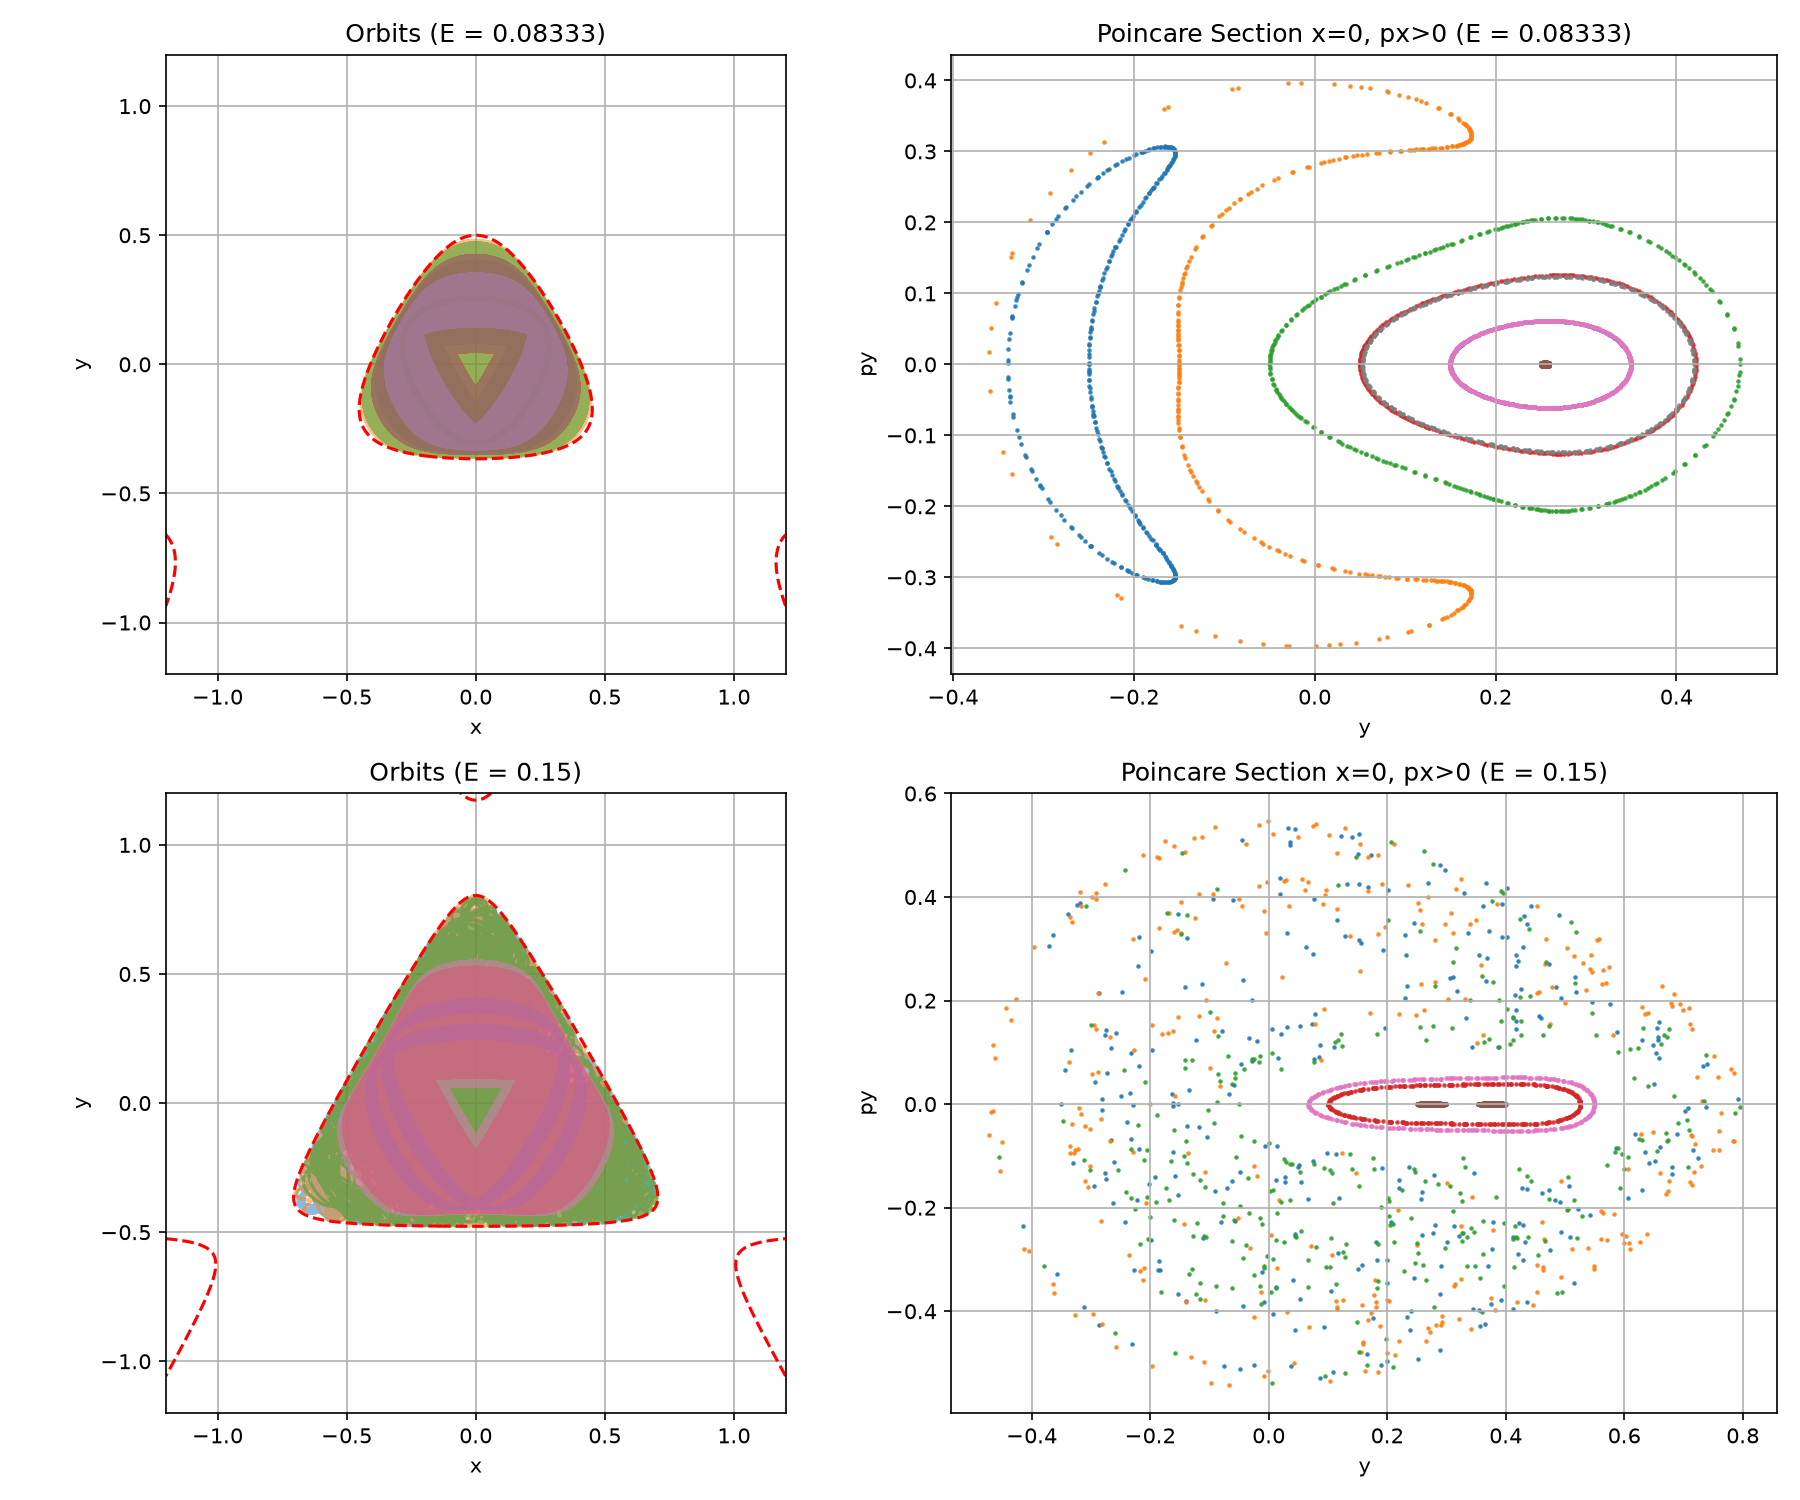
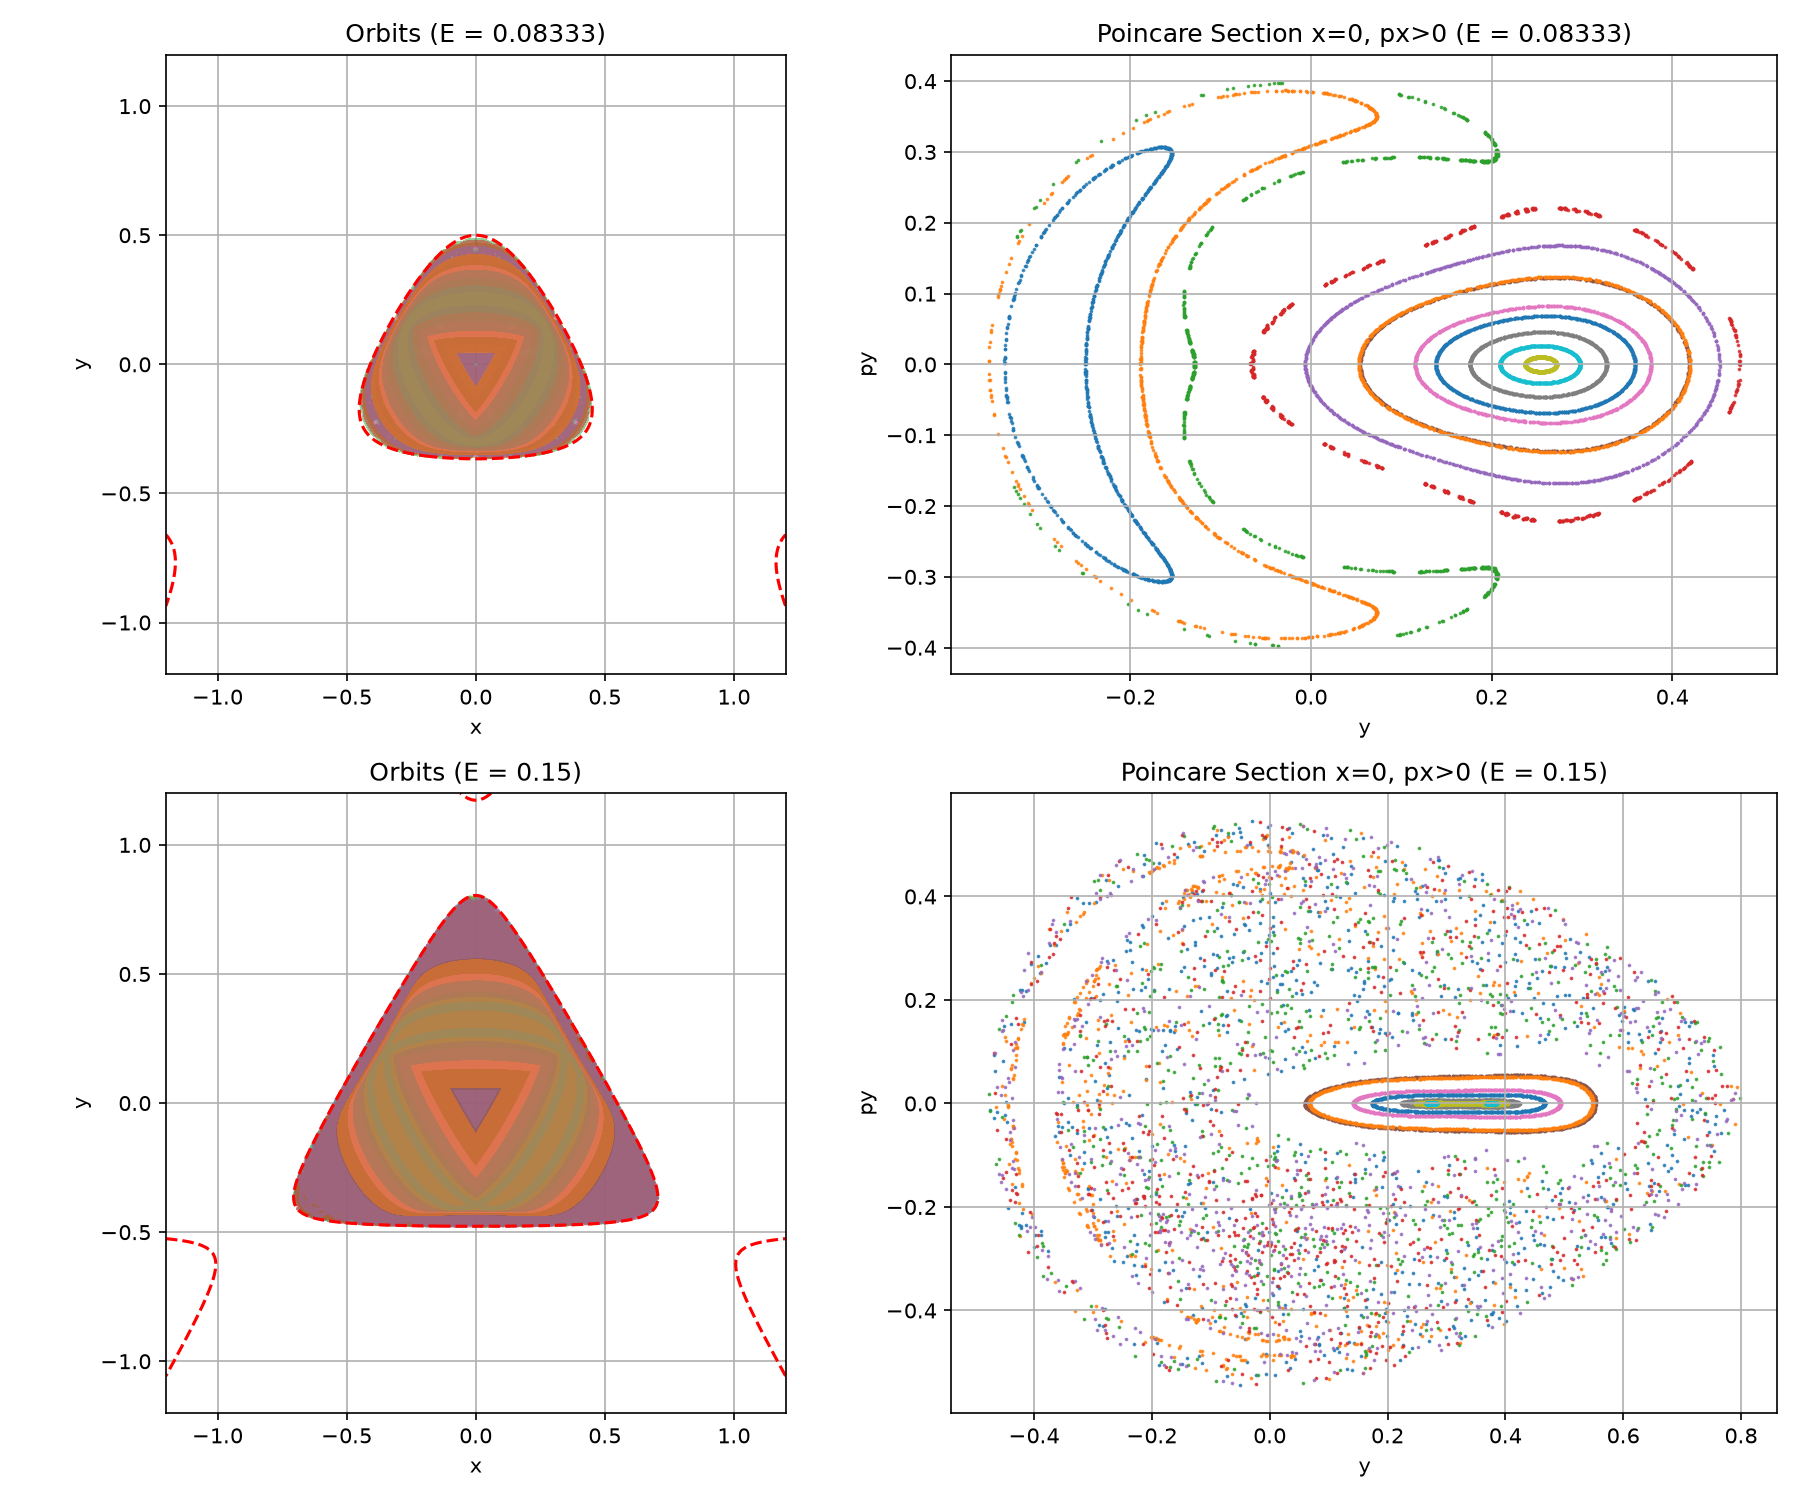
feat(171_casadi): increase Poincare point density and add res02_simulation_result.md

diff --git a/example/171_casadi/p02_hh.py b/example/171_casadi/p02_hh.py
@@ -48,22 +48,22 @@ ax_pl=axs[0,1]
 ax_oh=axs[1,0]
 ax_ph=axs[1,1]
 E_low=(8.3330e-2)
-y0_low=[(-0.250    ), (-0.150    ), (-5.00e-2), (5.00e-2), (0.150    ), (0.250    ), (0.350    ), (0.420    )]
-results_low=simulate_hh(E_low, y0_low, t_max=(2.00e+3), n_steps=200000)
+y0_low=np.linspace((-0.250    ), (0.420    ), 12).tolist()
+results_low=simulate_hh(E_low, y0_low, t_max=(5.00e+3), n_steps=500000)
 E_high=(0.150    )
-y0_high=[(-0.350    ), (-0.20    ), (-5.00e-2), (0.10    ), (0.250    ), (0.40    ), (0.550    )]
-results_high=simulate_hh(E_high, y0_high, t_max=(2.00e+3), n_steps=200000)
+y0_high=np.linspace((-0.350    ), (0.550    ), 12).tolist()
+results_high=simulate_hh(E_high, y0_high, t_max=(5.00e+3), n_steps=500000)
 x_g=np.linspace((-1.20    ), (1.20    ), 200)
 y_g=np.linspace((-1.20    ), (1.20    ), 200)
 X, Y=np.meshgrid(x_g, y_g)
 Z=(((((0.50    ))*(((((X)**(2)))+(((Y)**(2)))))))+(((((((X)**(2)))*(Y)))-(((((Y)**(3)))/((3.0    )))))))
 for res in results_low:
     ax_ol.plot(res["x"], res["y"], alpha=(0.50    ))
-    ax_pl.scatter(res["y_cross"], res["py_cross"], s=(1.50    ), alpha=(0.80    ))
+    ax_pl.scatter(res["y_cross"], res["py_cross"], s=(0.60    ), alpha=(0.80    ))
 ax_ol.contour(X, Y, Z, levels=[E_low], colors="red", linestyles="dashed")
 for res in results_high:
     ax_oh.plot(res["x"], res["y"], alpha=(0.50    ))
-    ax_ph.scatter(res["y_cross"], res["py_cross"], s=(1.50    ), alpha=(0.80    ))
+    ax_ph.scatter(res["y_cross"], res["py_cross"], s=(0.60    ), alpha=(0.80    ))
 ax_oh.contour(X, Y, Z, levels=[E_high], colors="red", linestyles="dashed")
 ax_ol.set_aspect("equal")
 ax_ol.set_title(f"Orbits (E = {E_low})")

diff --git a/example/171_casadi/res02_simulation_result.md b/example/171_casadi/res02_simulation_result.md
@@ -1,0 +1,25 @@
+# Hénon-Heiles Galactic Orbit Simulation & Poincaré Sections
+
+We have successfully formulated the Hénon-Heiles system, integrated it using CasADi's `cvodes` suite, and generated the orbit plots and Poincaré sections.
+
+## Simulation Results
+
+![Hénon-Heiles Chaos Orbits and Poincaré Sections](henon_heiles_chaos.png)
+
+---
+
+## Physical Analysis
+
+### 1. Low Energy ($E = 0.08333 \approx 1/12$)
+* **Orbits (Top-Left):** The trajectories are regular, bounded, and exhibit symmetry. They are confined well within the zero-velocity curve (red dashed line).
+* **Poincaré Section (Top-Right):** Slicing the phase space at $x=0, p_x > 0$ yields neat, closed 1-dimensional curves. Each curve corresponds to a different initial vertical coordinate $y_0$. These closed curves are 2D slices of 3D invariant tori. This confirms that a **third integral of motion** is conserved, restricting the star's motion to a torus rather than letting it fill the entire 3D energy surface.
+
+### 2. High Energy ($E = 0.15$)
+* **Orbits (Bottom-Left):** The trajectories appear highly irregular and fill the space inside the zero-velocity curve.
+* **Poincaré Section (Bottom-Right):** The concentric tori have mostly broken down. Instead of neat closed curves, we observe a scattered "sea" of points, representing **chaotic motion**. This indicates that the third integral of motion has been destroyed by the non-linear coupling. However, some smaller concentric loop structures ("stability islands") still persist, representing resonant regular orbits that resist chaos.
+
+---
+
+## Code Files
+* **Lisp Generator Code:** [gen02.lisp](gen02.lisp)
+* **Generated Python Code:** [p02_hh.py](p02_hh.py)